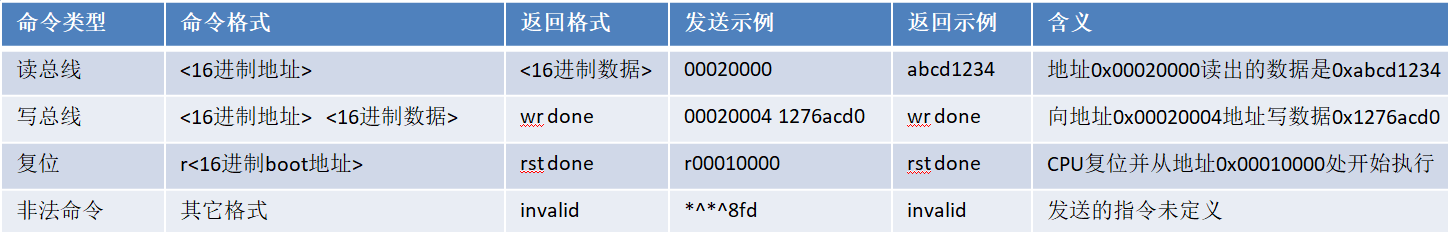
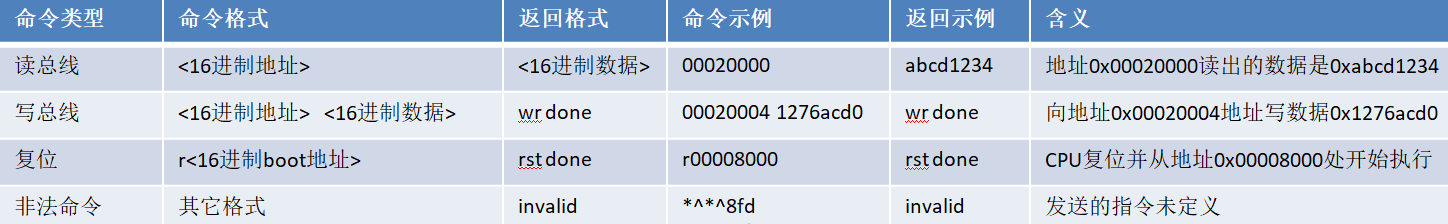
new readme

diff --git a/README.md b/README.md
@@ -33,9 +33,9 @@
 
 > * **多主多从总线仲裁器(naive_bus_router.sv)**：为每个从设备划分地址空间，将主设备的总线读写请求路由到从设备。当多个主设备同时访问一个从设备时，还能进行访问冲突控制。
 > * **RV32I Core(core_top.sv)**：包括两个主接口。一个用于取指令，一个用于读写数据
-> * **UART调试器(isp_uart.sv)**：包括一个主接口。它接收用户从UART发来的命令，对总线进行读写。它可以用于在线烧录、在线调试。
+> * **UART调试器(isp_uart.sv)**：包括一个主接口。它接收用户从UART发来的命令，对总线进行读写。它可以用于在线烧写、在线调试。
 > * **指令ROM(instr_rom.sv)**：CPU默认从这里开始取指令，多用于仿真
-> * **指令RAM(ram_bus_wrapper.sv)**：用户在线烧录程序到这里。
+> * **指令RAM(ram_bus_wrapper.sv)**：用户在线烧写程序到这里。
 > * **数据RAM(ram_bus_wrapper.sv)**：存放运行时的数据。
 > * **显存RAM(vedio_ram.sv)**：在屏幕上显示98列*36行=3528个字符，显存RAM的前3528B对应的ASCII码值就决定了每个字符是什么
 > * **用户UART(user_uart_tx)**：暂时只有发送功能，向其中写一个字节相当于把该字节放入发送缓冲区FIFO，缓冲区大小256B，缓冲区的数据会尽快发送。
@@ -62,9 +62,11 @@ TODO
 
 ![Image text](https://github.com/WangXuan95/USTCRVSoC/blob/master/images/connection.png)
 
-2、**综合、烧录FPGA**：用Quartus软件打开./Quartus/DE0_Nano/DE0_Nano.qpf，综合并烧写到DE0-Nano。
+![Image text](https://github.com/WangXuan95/USTCRVSoC/blob/master/images/usb_uart.png)
 
-3、**尝试读取总线**：在电脑上的串口终端软件（超级终端、串口助手、minicom）中，使用格式(115200,n,8,1)，ASCII形式（不要使用二进制）发送00000000\n，如果看到收到一个8位16进制数，那么恭喜你SoC部署成功，该数代表SoC数据总线的地址0x00000000处的读取数据。如果没有收到数据，以下是可能的原因：
+2、**综合、烧写FPGA**：用Quartus软件打开./Quartus/DE0_Nano/DE0_Nano.qpf，综合并烧写到DE0-Nano。
+
+3、**尝试读取总线**：在电脑上的串口终端软件（超级终端、串口助手、minicom）中，使用格式(115200,n,8,1)发送00000000\n，如果看到收到一个8位16进制数，那么恭喜你SoC部署成功，该数代表SoC数据总线的地址0x00000000处的读取数据。如果没有收到数据，以下是可能的原因：
 
 > * **硬件连接问题**：例如TX/RX接反，杜邦线接触不良等
 > * **共地问题**：要求电脑的地与板子的地连接，如果DE0-Nano上的USB口与电脑连接，则已经共地，否则请额外使用杜邦线将USB转UART的地与DE0-Nano的地连接。
@@ -81,11 +83,12 @@ TODO
 根据这些命令，不难猜出，在线上传程序的流程是：
 
 > 1、使用写命令，将指令流写入指令RAM，（指令RAM的地址是00008000~00008fff）
+
 > 2、使用复位命令r00008000，将CPU复位并从指令RAM种BOOT
 
 ### 使用工具：USTCRVSoC-tool
 
-./USTCRVSoC-tool/USTCRVSoC-tool.exe 是一个能汇编和烧录的小工具，相当于一个汇编语言的IDE。界面如下图。
+./USTCRVSoC-tool/USTCRVSoC-tool.exe 是一个能汇编和烧写的小工具，相当于一个汇编语言的IDE。界面如下图。
 
 ![Image text](https://github.com/WangXuan95/USTCRVSoC/blob/master/images/USTCRVSoC-tool-image.png)
 
@@ -98,16 +101,16 @@ TODO
 | fibonacci_recursive.S  | 递归法计算斐波那契数列第7个数并，用用户UART打印结果  |
 | load_store.S  | 完成一些内存读写，没有具体表现，为了观察现象，可以使用UART调试器查看内存 |
 
-现在我们尝试让SoC运行一个UART打印的程序。点击“打开...”按钮，浏览到目录./software/asm-code，打开汇编文件uart_print.S。点击右侧的“汇编”按钮，可以看到右下方框里出现了一串16进制数，这就是汇编得到的机器码。然后，选择正确的COM口，点击“烧录”，如果下方状态栏里显示“烧录成功”，则CPU就已经开始运行该机器码了。这是一个使用用户UART循环打印“hello!”的程序，
+现在我们尝试让SoC运行一个UART打印的程序。点击“打开...”按钮，浏览到目录./software/asm-code，打开汇编文件uart_print.S。点击右侧的“汇编”按钮，可以看到右下方框里出现了一串16进制数，这就是汇编得到的机器码。然后，选择正确的COM口，点击“烧写”，如果下方状态栏里显示“烧写成功”，则CPU就已经开始运行该机器码了。这是一个使用用户UART循环打印“hello!”的程序，
 
-> 注：用户UART与UART调试器不是同一个调试器。为了观察现象，可以将UART调试器的杜邦线拔下来插在用户UART上。通信格式依然是(115200,n,8,1)。
+> 注：用户UART与UART调试器不是同一个UART。为了观察现象，可以将UART调试器的杜邦线拔下来插在用户UART上，或者使用两个USB转UART模块。通信格式依然是(115200,n,8,1)。
 
 
 # RTL仿真
 
 ### 生成Verilog ROM
 
-USTCRVSoC-tool.exe 除了进行烧录，也可以生成指令ROM的Verilog代码。当你使用“汇编”按钮产生指令流后，可以点击右侧的“保存指令流(Verilog)”按钮，用生成的ROM代码替换 ./RTL/instr_rom.sv
+USTCRVSoC-tool.exe 除了进行烧写，也可以生成指令ROM的Verilog代码。当你使用“汇编”按钮产生指令流后，可以点击右侧的“保存指令流(Verilog)”按钮，用生成的ROM代码替换 ./RTL/instr_rom.sv
 
 ### 进行仿真
 
